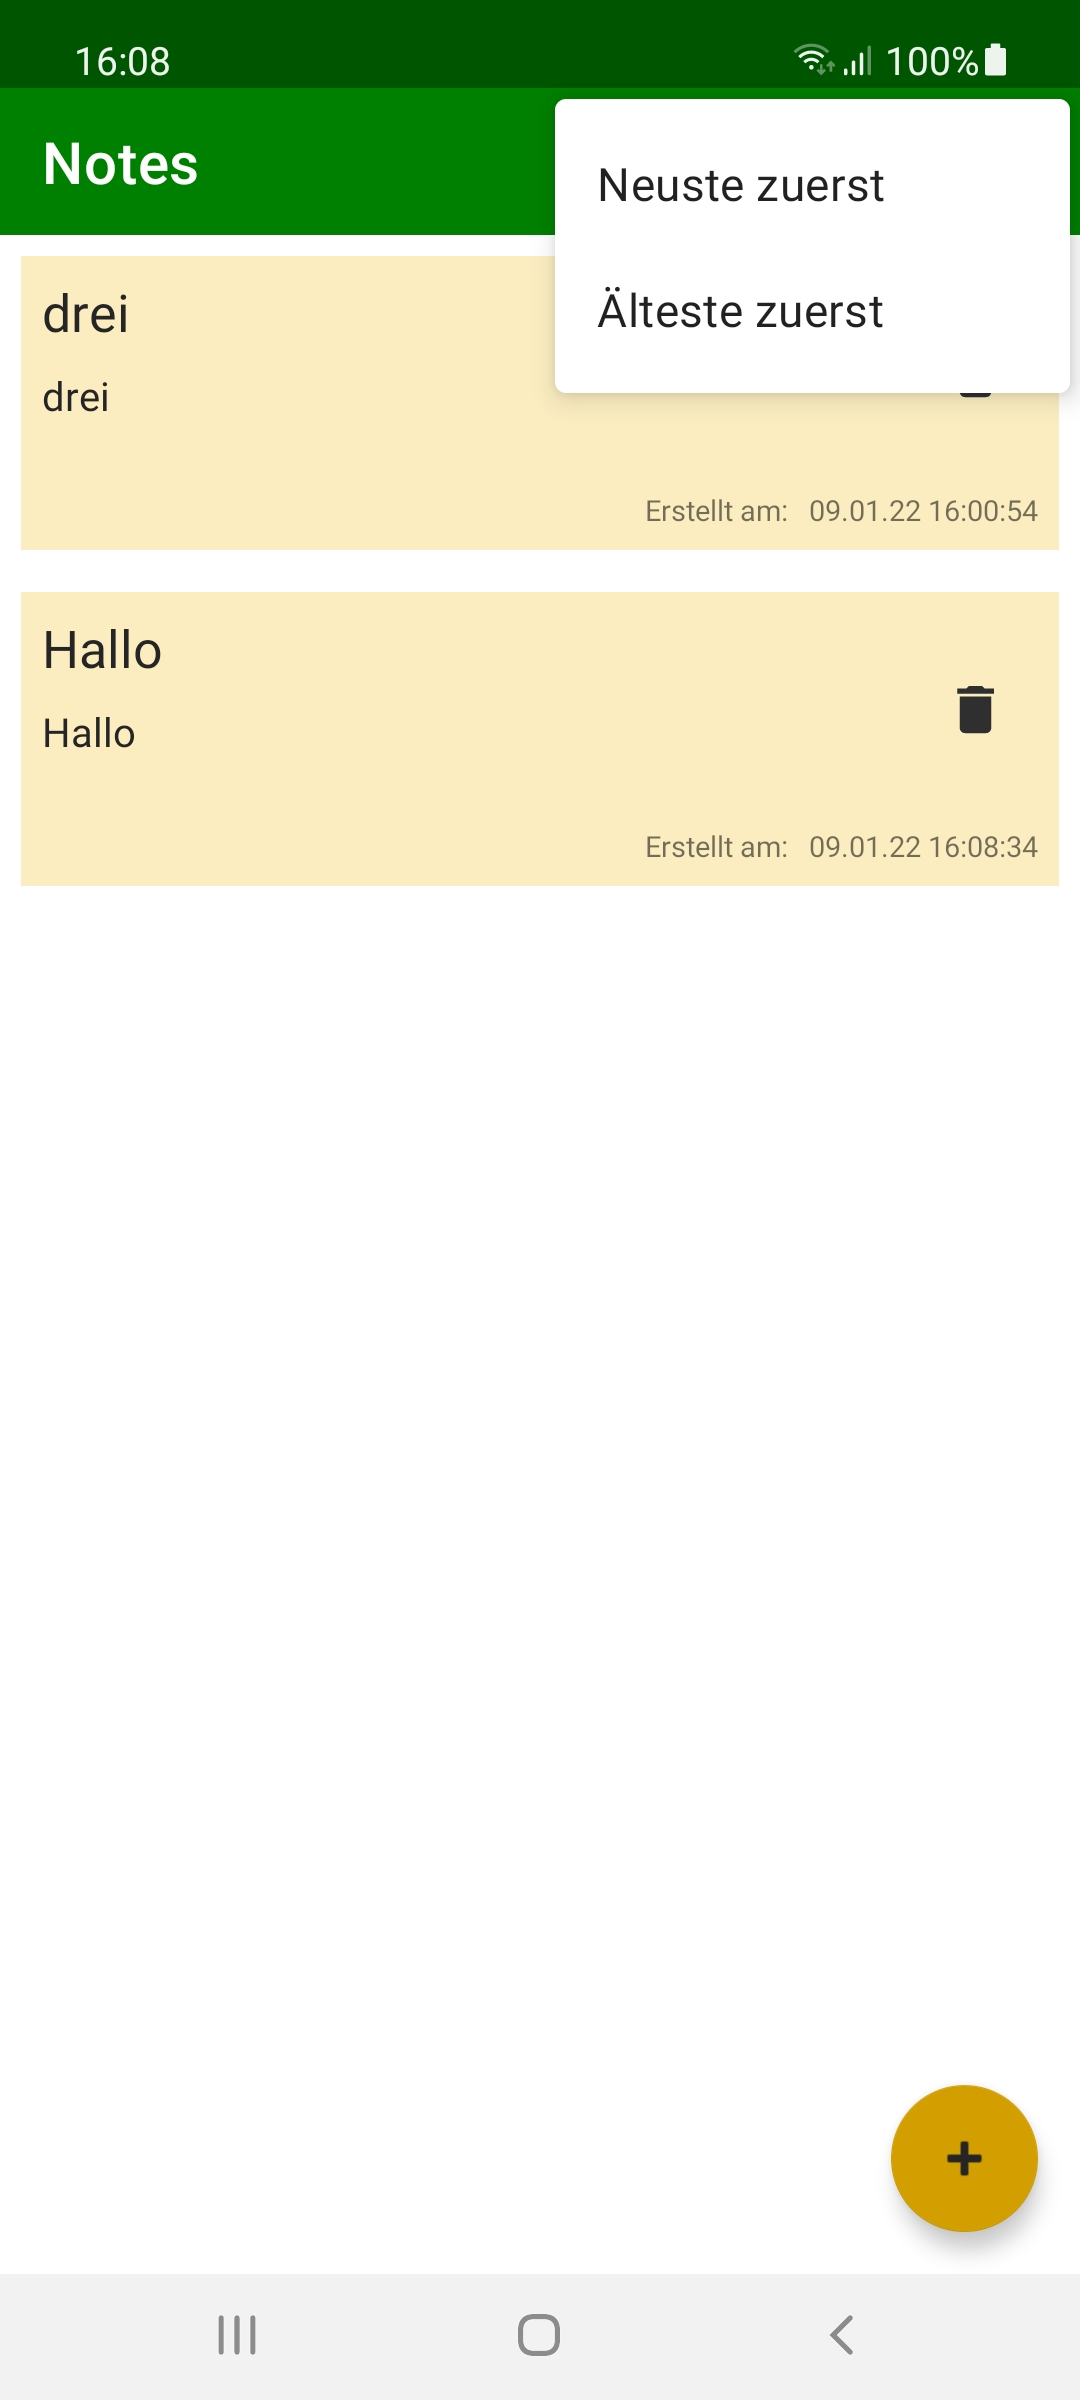
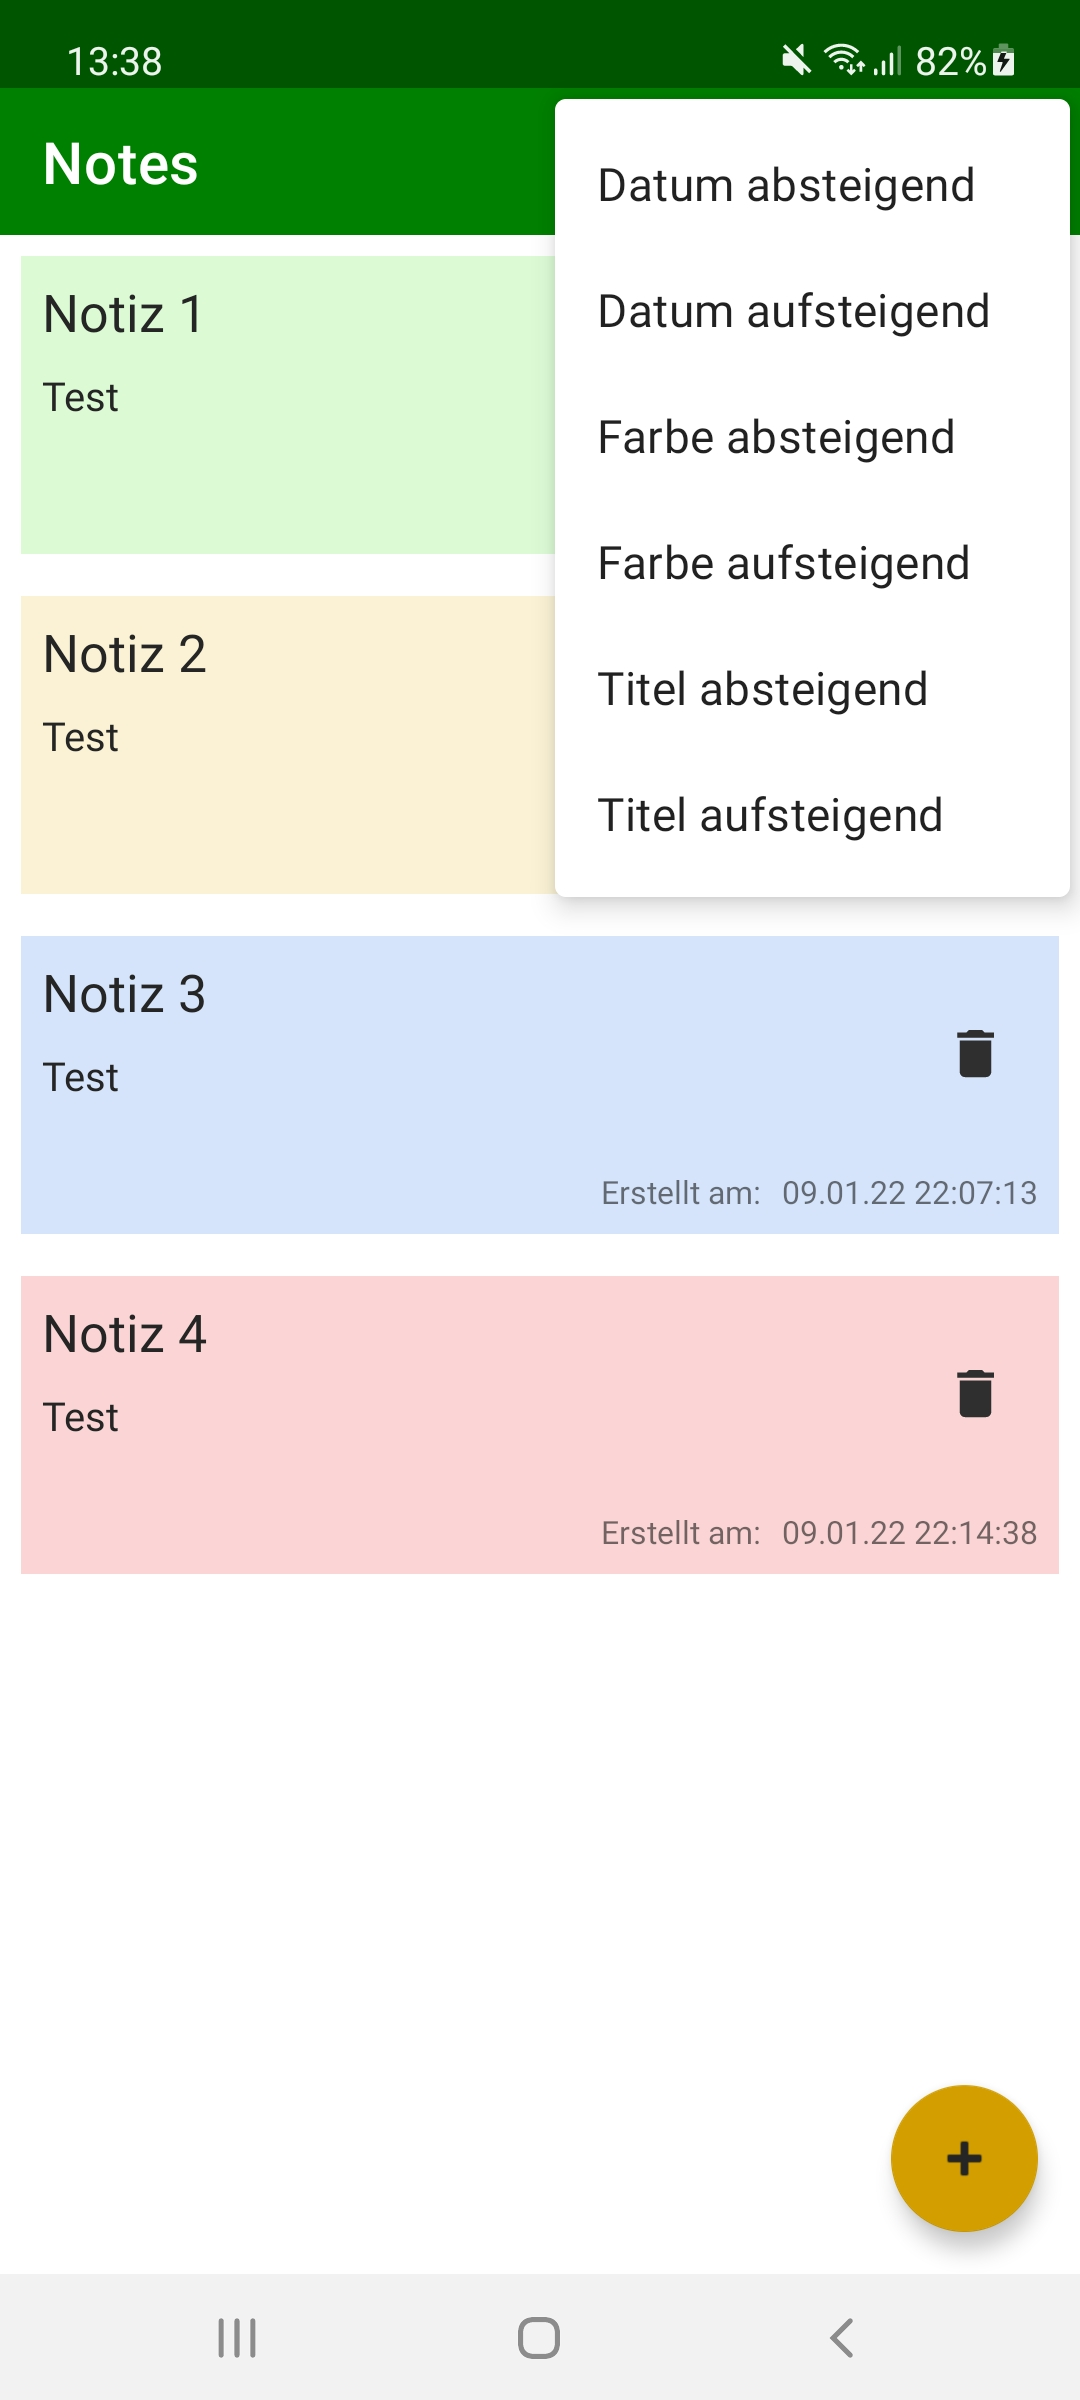
add sorting options and update image for README

diff --git a/app/src/main/java/de/leyn/noteapp/presentation/note_list/OverviewListActivity.kt b/app/src/main/java/de/leyn/noteapp/presentation/note_list/OverviewListActivity.kt
@@ -109,19 +109,39 @@ class OverviewListActivity : AppCompatActivity(),
 
     override fun onCreateOptionsMenu(menu: Menu?): Boolean {
         val inflater: MenuInflater = menuInflater
-        inflater.inflate(R.menu.list_menu, menu)
+        inflater.inflate(R.menu.sort_order_menu, menu)
         return true
     }
 
     override fun onOptionsItemSelected(item: MenuItem): Boolean {
         return when (item.itemId) {
-            R.id.latestFirst -> {
+            R.id.dateDescending -> {
                 noteList.sortByDescending { it.createdDate.convertToDate() }
                 recyclerAdapter.notifyDataSetChanged()
                 true
             }
-            R.id.oldestFirst -> {
+            R.id.dateAscending -> {
                 noteList.sortBy { it.createdDate.convertToDate() }
+                recyclerAdapter.notifyDataSetChanged()
+                true
+            }
+            R.id.colorDescending -> {
+                noteList.sortByDescending { it.color }
+                recyclerAdapter.notifyDataSetChanged()
+                true
+            }
+            R.id.colorAscending -> {
+                noteList.sortBy { it.color }
+                recyclerAdapter.notifyDataSetChanged()
+                true
+            }
+            R.id.titleDescending -> {
+                noteList.sortByDescending { it.title }
+                recyclerAdapter.notifyDataSetChanged()
+                true
+            }
+            R.id.titleAscending -> {
+                noteList.sortBy { it.title }
                 recyclerAdapter.notifyDataSetChanged()
                 true
             }
